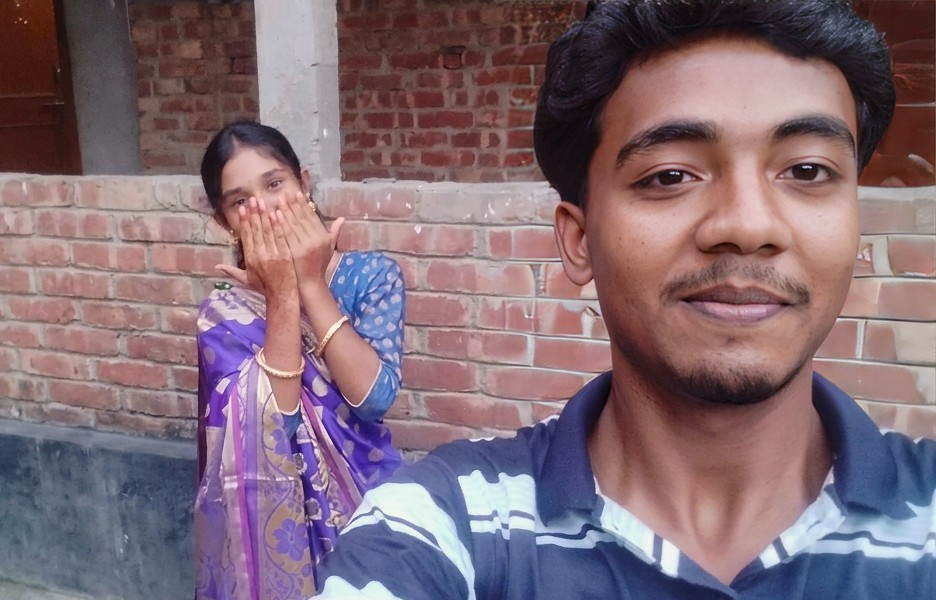
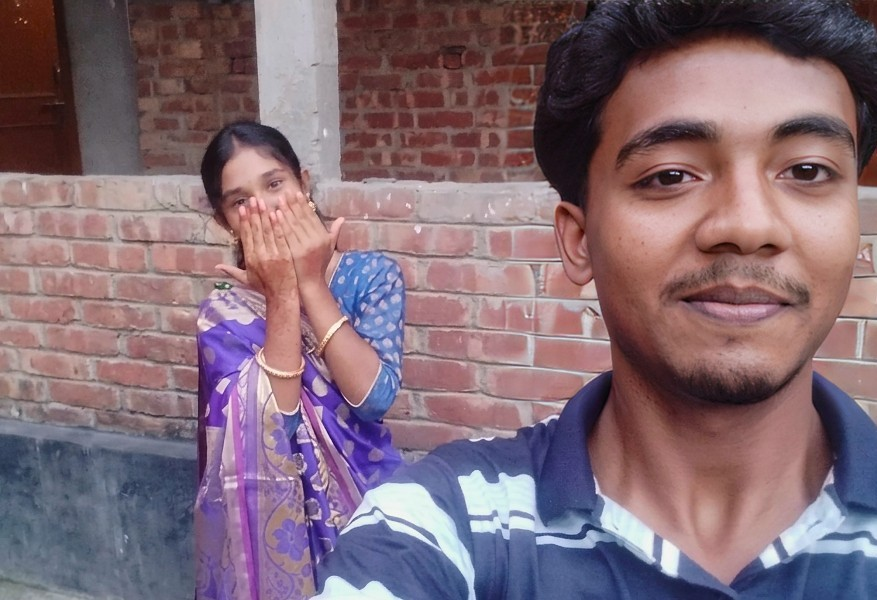
more lmc pic add

diff --git a/index.html b/index.html
@@ -1082,6 +1082,35 @@
       <img src="image/Image174.webp" class="collection-img" loading="lazy" onclick="openMedia(this.src)">
       <img src="image/Image175.webp" class="collection-img" loading="lazy" onclick="openMedia(this.src)">
       <img src="image/Image176.webp" class="collection-img" loading="lazy" onclick="openMedia(this.src)">
+            <img src="image/177.webp" class="collection-img" loading="lazy" onclick="openMedia(this.src)">
+      <img src="image/178.webp" class="collection-img" loading="lazy" onclick="openMedia(this.src)">
+      <img src="image/179.jpeg" class="collection-img" loading="lazy" onclick="openMedia(this.src)">
+      <img src="image/180.jpeg" class="collection-img" loading="lazy" onclick="openMedia(this.src)">
+      <img src="image/181.jpeg" class="collection-img" loading="lazy" onclick="openMedia(this.src)">
+      <img src="image/182.jpeg" class="collection-img" loading="lazy" onclick="openMedia(this.src)">
+      <img src="image/183.jpeg" class="collection-img" loading="lazy" onclick="openMedia(this.src)">
+      <img src="image/184.jpeg" class="collection-img" loading="lazy" onclick="openMedia(this.src)">
+      <img src="image/185.jpeg" class="collection-img" loading="lazy" onclick="openMedia(this.src)">
+      <img src="image/186.jpeg" class="collection-img" loading="lazy" onclick="openMedia(this.src)">
+      <img src="image/187.jpeg" class="collection-img" loading="lazy" onclick="openMedia(this.src)">
+      <img src="image/188.jpeg" class="collection-img" loading="lazy" onclick="openMedia(this.src)">
+      <img src="image/189.jpeg" class="collection-img" loading="lazy" onclick="openMedia(this.src)">
+      <img src="image/190.jpeg" class="collection-img" loading="lazy" onclick="openMedia(this.src)">
+      <img src="image/191.jpeg" class="collection-img" loading="lazy" onclick="openMedia(this.src)">
+      <img src="image/192.jpeg" class="collection-img" loading="lazy" onclick="openMedia(this.src)">
+      <img src="image/193.jpeg" class="collection-img" loading="lazy" onclick="openMedia(this.src)">
+      <img src="image/194.jpeg" class="collection-img" loading="lazy" onclick="openMedia(this.src)">
+      <img src="image/195.jpeg" class="collection-img" loading="lazy" onclick="openMedia(this.src)">
+      <img src="image/196.jpeg" class="collection-img" loading="lazy" onclick="openMedia(this.src)">
+      <img src="image/197.jpeg" class="collection-img" loading="lazy" onclick="openMedia(this.src)">
+      <img src="image/198.jpeg" class="collection-img" loading="lazy" onclick="openMedia(this.src)">
+      <img src="image/199.jpeg" class="collection-img" loading="lazy" onclick="openMedia(this.src)">
+      <img src="image/200.jpeg" class="collection-img" loading="lazy" onclick="openMedia(this.src)">
+      <img src="image/202.jpeg" class="collection-img" loading="lazy" onclick="openMedia(this.src)">
+      <img src="image/203.jpeg" class="collection-img" loading="lazy" onclick="openMedia(this.src)">
+      <img src="image/206.jpeg" class="collection-img" loading="lazy" onclick="openMedia(this.src)">
+      <img src="image/207.jpeg" class="collection-img" loading="lazy" onclick="openMedia(this.src)">
+      <img src="image/208.jpeg" class="collection-img" loading="lazy" onclick="openMedia(this.src)">
       <img src="image/1.jpg" class="collection-img" loading="lazy" onclick="openMedia(this.src)">
       <img src="image/2.jpg" class="collection-img" loading="lazy" onclick="openMedia(this.src)">
       <img src="image/3.jpg" class="collection-img" loading="lazy" onclick="openMedia(this.src)">
